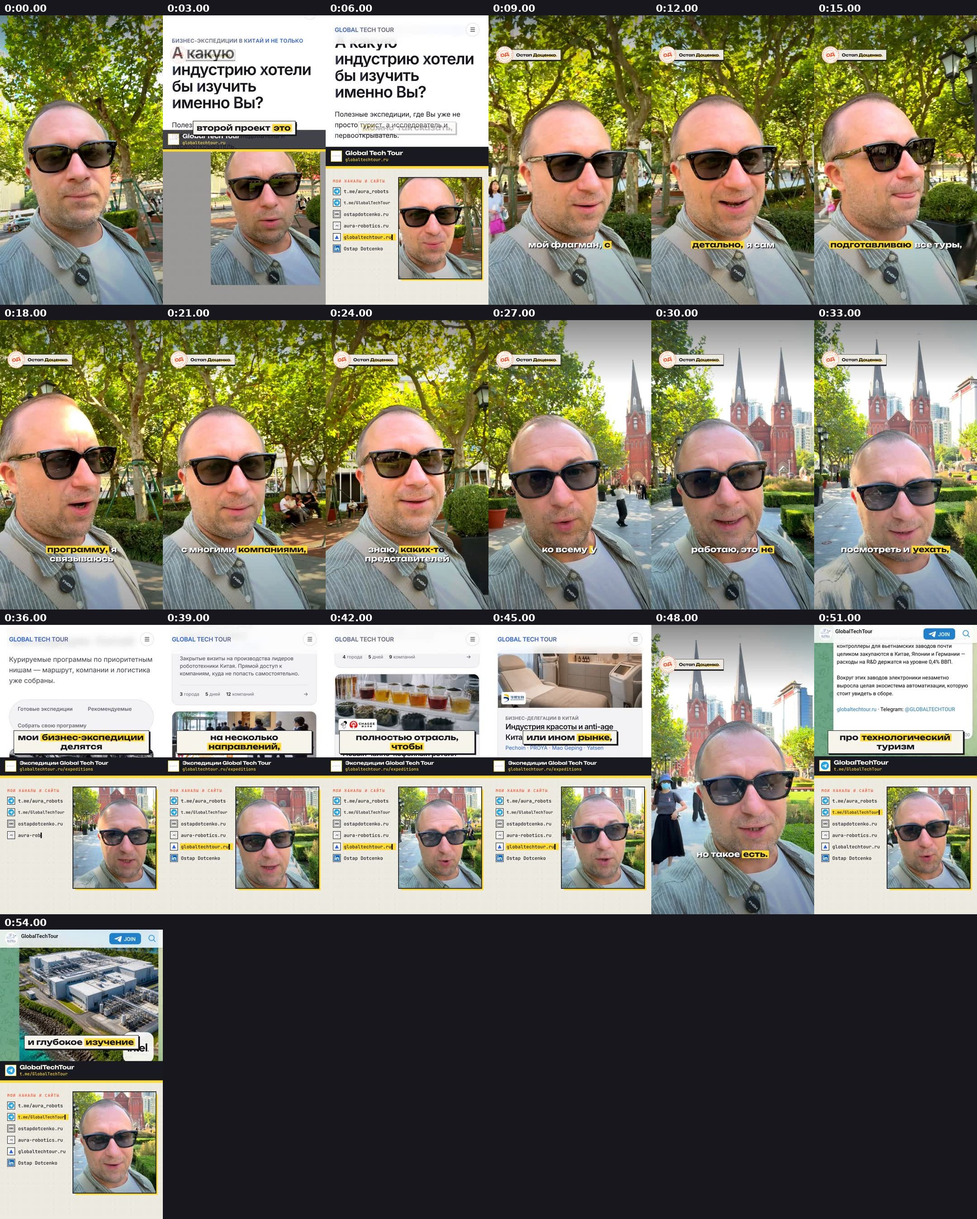
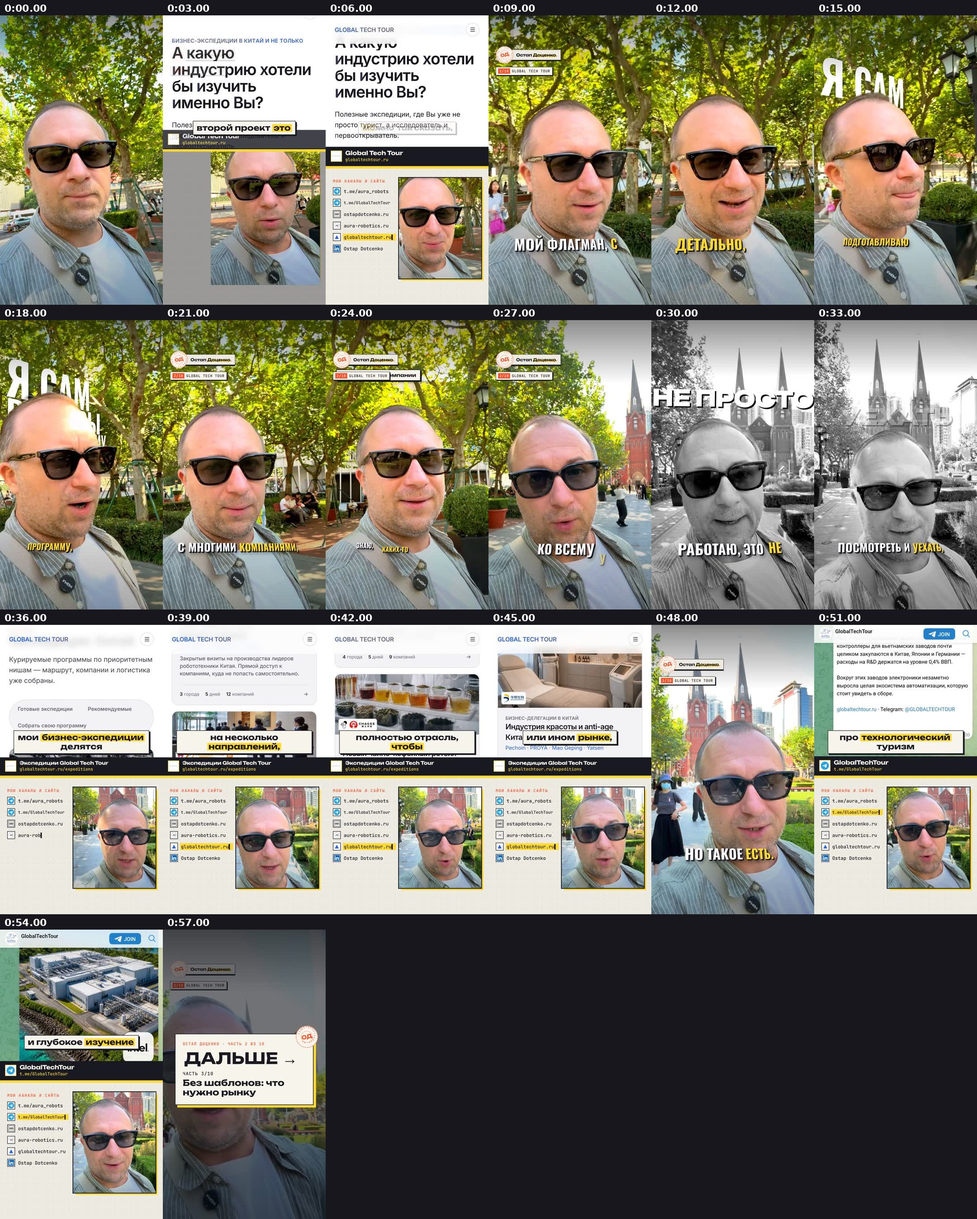
Серия ostapdotcenko, часть 2/10 «Global Tech Tour» (od-7); печать ОД прячется под плашками и цифрами
Claude-Session: https://claude.ai/code/session_01GWbvgKxue3PjjbbHEP4BVJ

diff --git a/reels-studio/src/compositions/TalkReelPro.tsx b/reels-studio/src/compositions/TalkReelPro.tsx
@@ -1554,6 +1554,12 @@ const AuraBadgeSlot: React.FC<TalkReelProProps> = (p) => {
 const hookAmount = (hooks: TalkReelProProps["hooks"], t: number) =>
   Math.max(0, ...(hooks ?? []).map((h) => Math.min(interpolate(t, [h.at - 0.2, h.at], [0, 1], {extrapolateLeft: "clamp", extrapolateRight: "clamp"}), interpolate(t, [h.until, h.until + 0.25], [1, 0], {extrapolateLeft: "clamp", extrapolateRight: "clamp"}))));
 
+// плашки и крупные цифры встают в левый верхний угол — на это время печать ОД и плашка серии прячутся
+const topAmount = (p: TalkReelProProps, t: number) => {
+  const spans = [...p.chips.map((g) => [g.items[0].at, g.until]), ...p.numbers.map((n) => [n.at, n.until])];
+  return Math.max(0, ...spans.map(([a, b]) => Math.min(interpolate(t, [a - 0.25, a], [0, 1], {extrapolateLeft: "clamp", extrapolateRight: "clamp"}), interpolate(t, [b, b + 0.25], [1, 0], {extrapolateLeft: "clamp", extrapolateRight: "clamp"}))));
+};
+
 // ---------- фирменная заставка GTT в начале и конце (GttIntro) ----------
 // Интро 1,8 с (54 кадра): последние 10 кадров — треугольное окно раскрывается на начало ролика, поэтому ролик стартует
 // на 44-м кадре. Аутро 1,5 с (45 кадров): первые 10 кадров окно закрывается на конце ролика, потом 35 кадров логотипа.
@@ -1751,7 +1757,7 @@ const TalkReelProBody: React.FC<TalkReelProProps> = (p) => {
       ) : brand.id === "od" ? (
         // od: красная печать «ОД» и бумажная плашка «Остап Доценко.» слева сверху (как шапка сайта); пока на экране сайт — прячется
         p.badge === false ? null :
-        <div style={{position: "absolute", top: p.format === "stories" ? 196 : 76, left: 48, opacity: (1 - (activeScreen(screens, frame / fps)?.k ?? 0)) * (1 - hookAmount(p.hooks, frame / fps))}}>
+        <div style={{position: "absolute", top: p.format === "stories" ? 196 : 76, left: 48, opacity: (1 - (activeScreen(screens, frame / fps)?.k ?? 0)) * (1 - hookAmount(p.hooks, frame / fps)) * (1 - topAmount(p, frame / fps))}}>
           <OdBadge scale={0.9} />
           {p.episode ? (
             <div style={{marginTop: 14}}>
